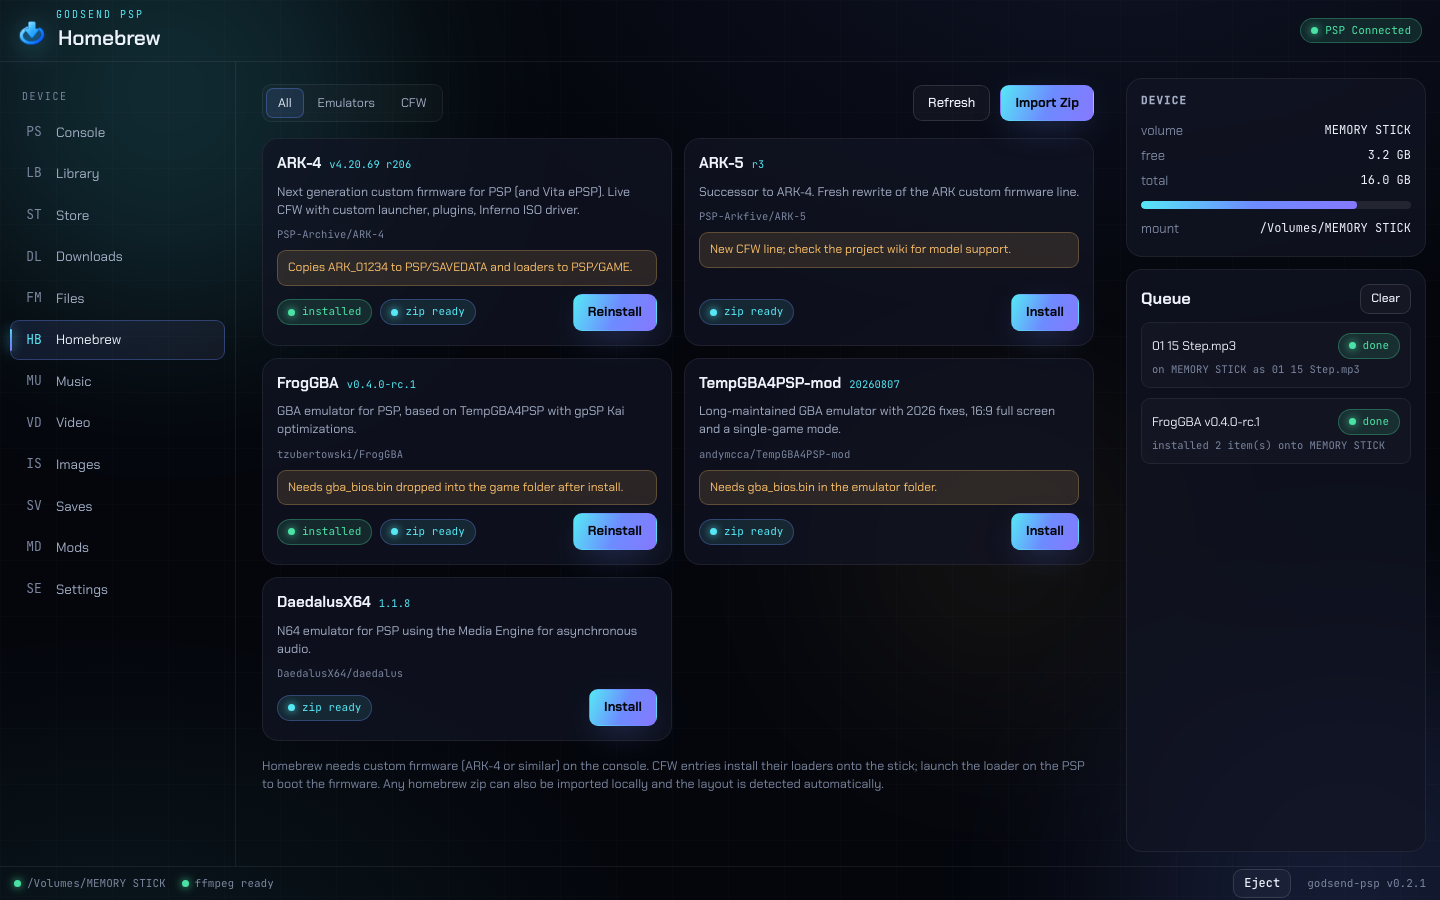
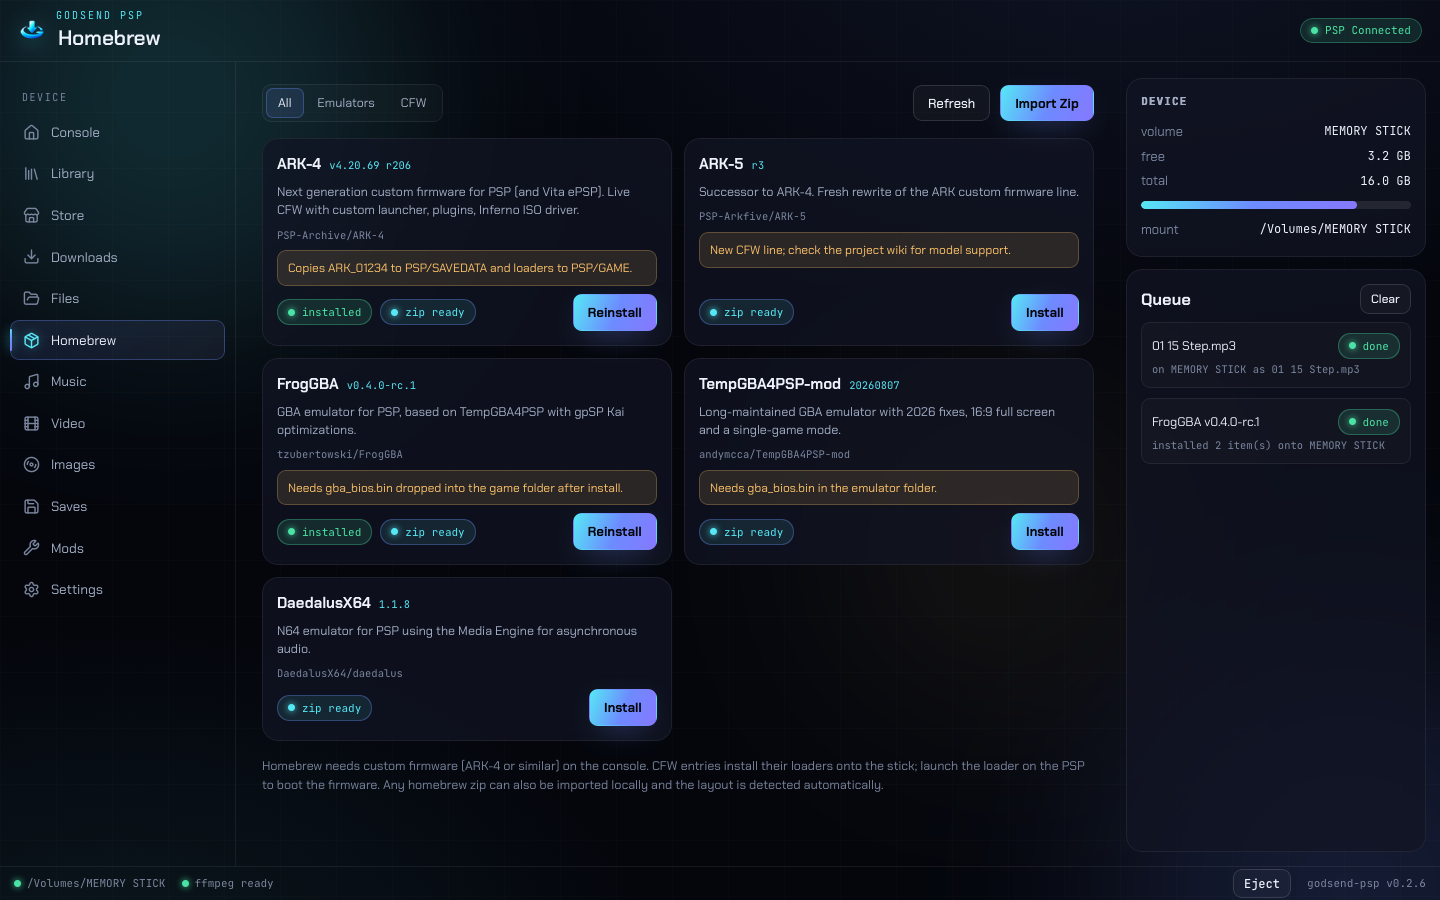
process: screenshots and publish are part of every change
capture-screens.mjs regenerates the site captures from the mock UI
(WebKit); AGENTS.md, cursor rules and the changelog skill now require
screenshots plus a full publish (build, GoFile + file.kiwi, live check).
Captures refreshed. Version 0.2.7.

diff --git a/app/src/pages/Settings.tsx b/app/src/pages/Settings.tsx
@@ -260,7 +260,7 @@ export default function Settings({ snap, reload, toast, refreshKey }: PageProps)
           <Btn onClick={() => void api.openDataDir()}>Open Data Folder</Btn>
         </div>
         <p style={{ margin: "12px 0 0", fontSize: 12.5, color: "var(--text-faint)" }}>
-          godsend-psp 0.2.6 - Rust engine + Tauri. USB mass storage, no drivers.
+          godsend-psp 0.2.7 - Rust engine + Tauri. USB mass storage, no drivers.
         </p>
       </section>
     </div>

diff --git a/app/src/App.tsx b/app/src/App.tsx
@@ -61,7 +61,7 @@ const NAV: { id: Page; label: string; icon: LucideIcon }[] = [
   { id: "settings", label: "Settings", icon: SettingsIcon },
 ];
 
-const VERSION = "0.2.6";
+const VERSION = "0.2.7";
 
 export interface PageProps {
   snap: Snapshot;

diff --git a/AGENTS.md b/AGENTS.md
@@ -39,6 +39,12 @@ offers GODsend 360 style features for the PSP.
 - Savedata operations must skip `ARK_01234` (CFW payload, not a save).
 - Installs prune `__MACOSX`, `._*` and `.DS_Store` from the stick (ARK-4
   ships the same fix on-console; do it at the source).
+- **Every change ships complete.** Running "build and upload" means:
+  bump the version, regenerate screenshots (`app/scripts/capture-screens.mjs`
+  against the mock UI), run `scripts/publish-release.sh` (CI build, GoFile +
+  file.kiwi upload, README/site repoint), and confirm the live feed. A change
+  is not done with source commits alone. Recordings, when they change, go
+  through the demo-reels pipeline and the pages under docs/.
 - **Releases are not done until the live feed proves it.** After running
   `scripts/publish-release.sh`, confirm
   `https://ghostyshell.github.io/godsend-psp/downloads.json` (cache-busted)

diff --git a/.cursor/rules/ai-guidelines.md b/.cursor/rules/ai-guidelines.md
@@ -30,7 +30,11 @@ and raw hex in components is banned.
 6. Design: follow DESIGN.md tokens and motion rules; respect the
    reduced-motion kill switch; keep state chips dot+word so nothing is
    color-only.
-7. Releases: after `scripts/publish-release.sh`, verify the live site feed
+7. Ship complete: every change bumps the version, refreshes the site
+   screenshots (`node scripts/capture-screens.mjs` with the mock dev server),
+   and runs `scripts/publish-release.sh` (build, GoFile + file.kiwi upload,
+   README/site repoint, live-feed check) before it counts as done.
+8. Releases: after `scripts/publish-release.sh`, verify the live site feed
    (`downloads.json?v=<timestamp>`) reports the new version. Local files or
    a pushed commit are not proof; GitHub Pages caches for ten minutes and
    the site must fetch the feed cache-busted.

diff --git a/docs/agents/skills/changelog.md b/docs/agents/skills/changelog.md
@@ -33,6 +33,20 @@
    `scripts/`, `.github/`) comes without a staged `CHANGELOG.md` diff, or
    when the mirrored version files disagree.
 
+## Ship checklist (every change)
+
+1. Bump + changelog entry (above).
+2. Regenerate screenshots:
+   ```sh
+   (cd app && npm run dev &) ; sleep 4
+   (cd app && node scripts/capture-screens.mjs)
+   ```
+   Outputs `docs/site-console.png`, `site-library.png`, `site-games.png`,
+   `site-store.png`, `site-homebrew.png`.
+3. Commit, then `scripts/publish-release.sh` to build all platforms and
+   upload to GoFile + file.kiwi.
+4. Confirm the live feed check the script prints.
+
 ## Release
 
 `scripts/publish-release.sh` reads the version from `tauri.conf.json` and

diff --git a/CHANGELOG.md b/CHANGELOG.md
@@ -3,6 +3,9 @@
 All notable changes to GODsend PSP. Newest first.
 
 
+## [0.2.7] - 2026-11-15
+
+
 ## [0.2.6] - 2026-11-15
 
 
@@ -10,6 +13,14 @@ All notable changes to GODsend PSP. Newest first.
 
 
 ## [0.2.4] - 2026-11-15
+
+### Changed
+
+- Ship checklist now includes screenshots and a full publish: every change
+  regenerates the site captures (`app/scripts/capture-screens.mjs`), builds
+  through `scripts/publish-release.sh`, uploads to GoFile + file.kiwi and
+  verifies the live feed. Captures refreshed for the new nav, library and
+  store pages. Version 0.2.7.
 
 ### Changed
 
